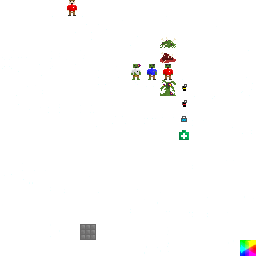
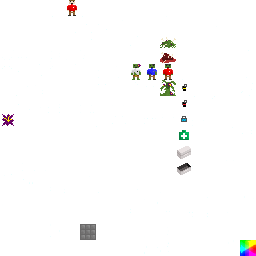
Adds infection epicenter graphic

Changed region(s): [[0.6875, 0.5625, 0.75, 0.6875], [0.0, 0.4375, 0.0625, 0.5]]

diff --git a/astro_demo/src/Map.cpp b/astro_demo/src/Map.cpp
@@ -407,7 +407,7 @@ void Map::createRoom(int roomNum, bool withActors, Room * room) {
 		int y = rng->getInt(y1, y2);
 
 		if(canWalk(x,y) && !isWall(x,y)) {
-			Actor * epicenter = new Actor(x, y, 3, "Infection Epicenter", TCODColor::green);
+			Actor * epicenter = new Actor(x, y, 7, "Infection Epicenter", TCODColor::white);
 			epicenter->ai=new EpicenterAi;
 			engine.actors.push(epicenter);
 
